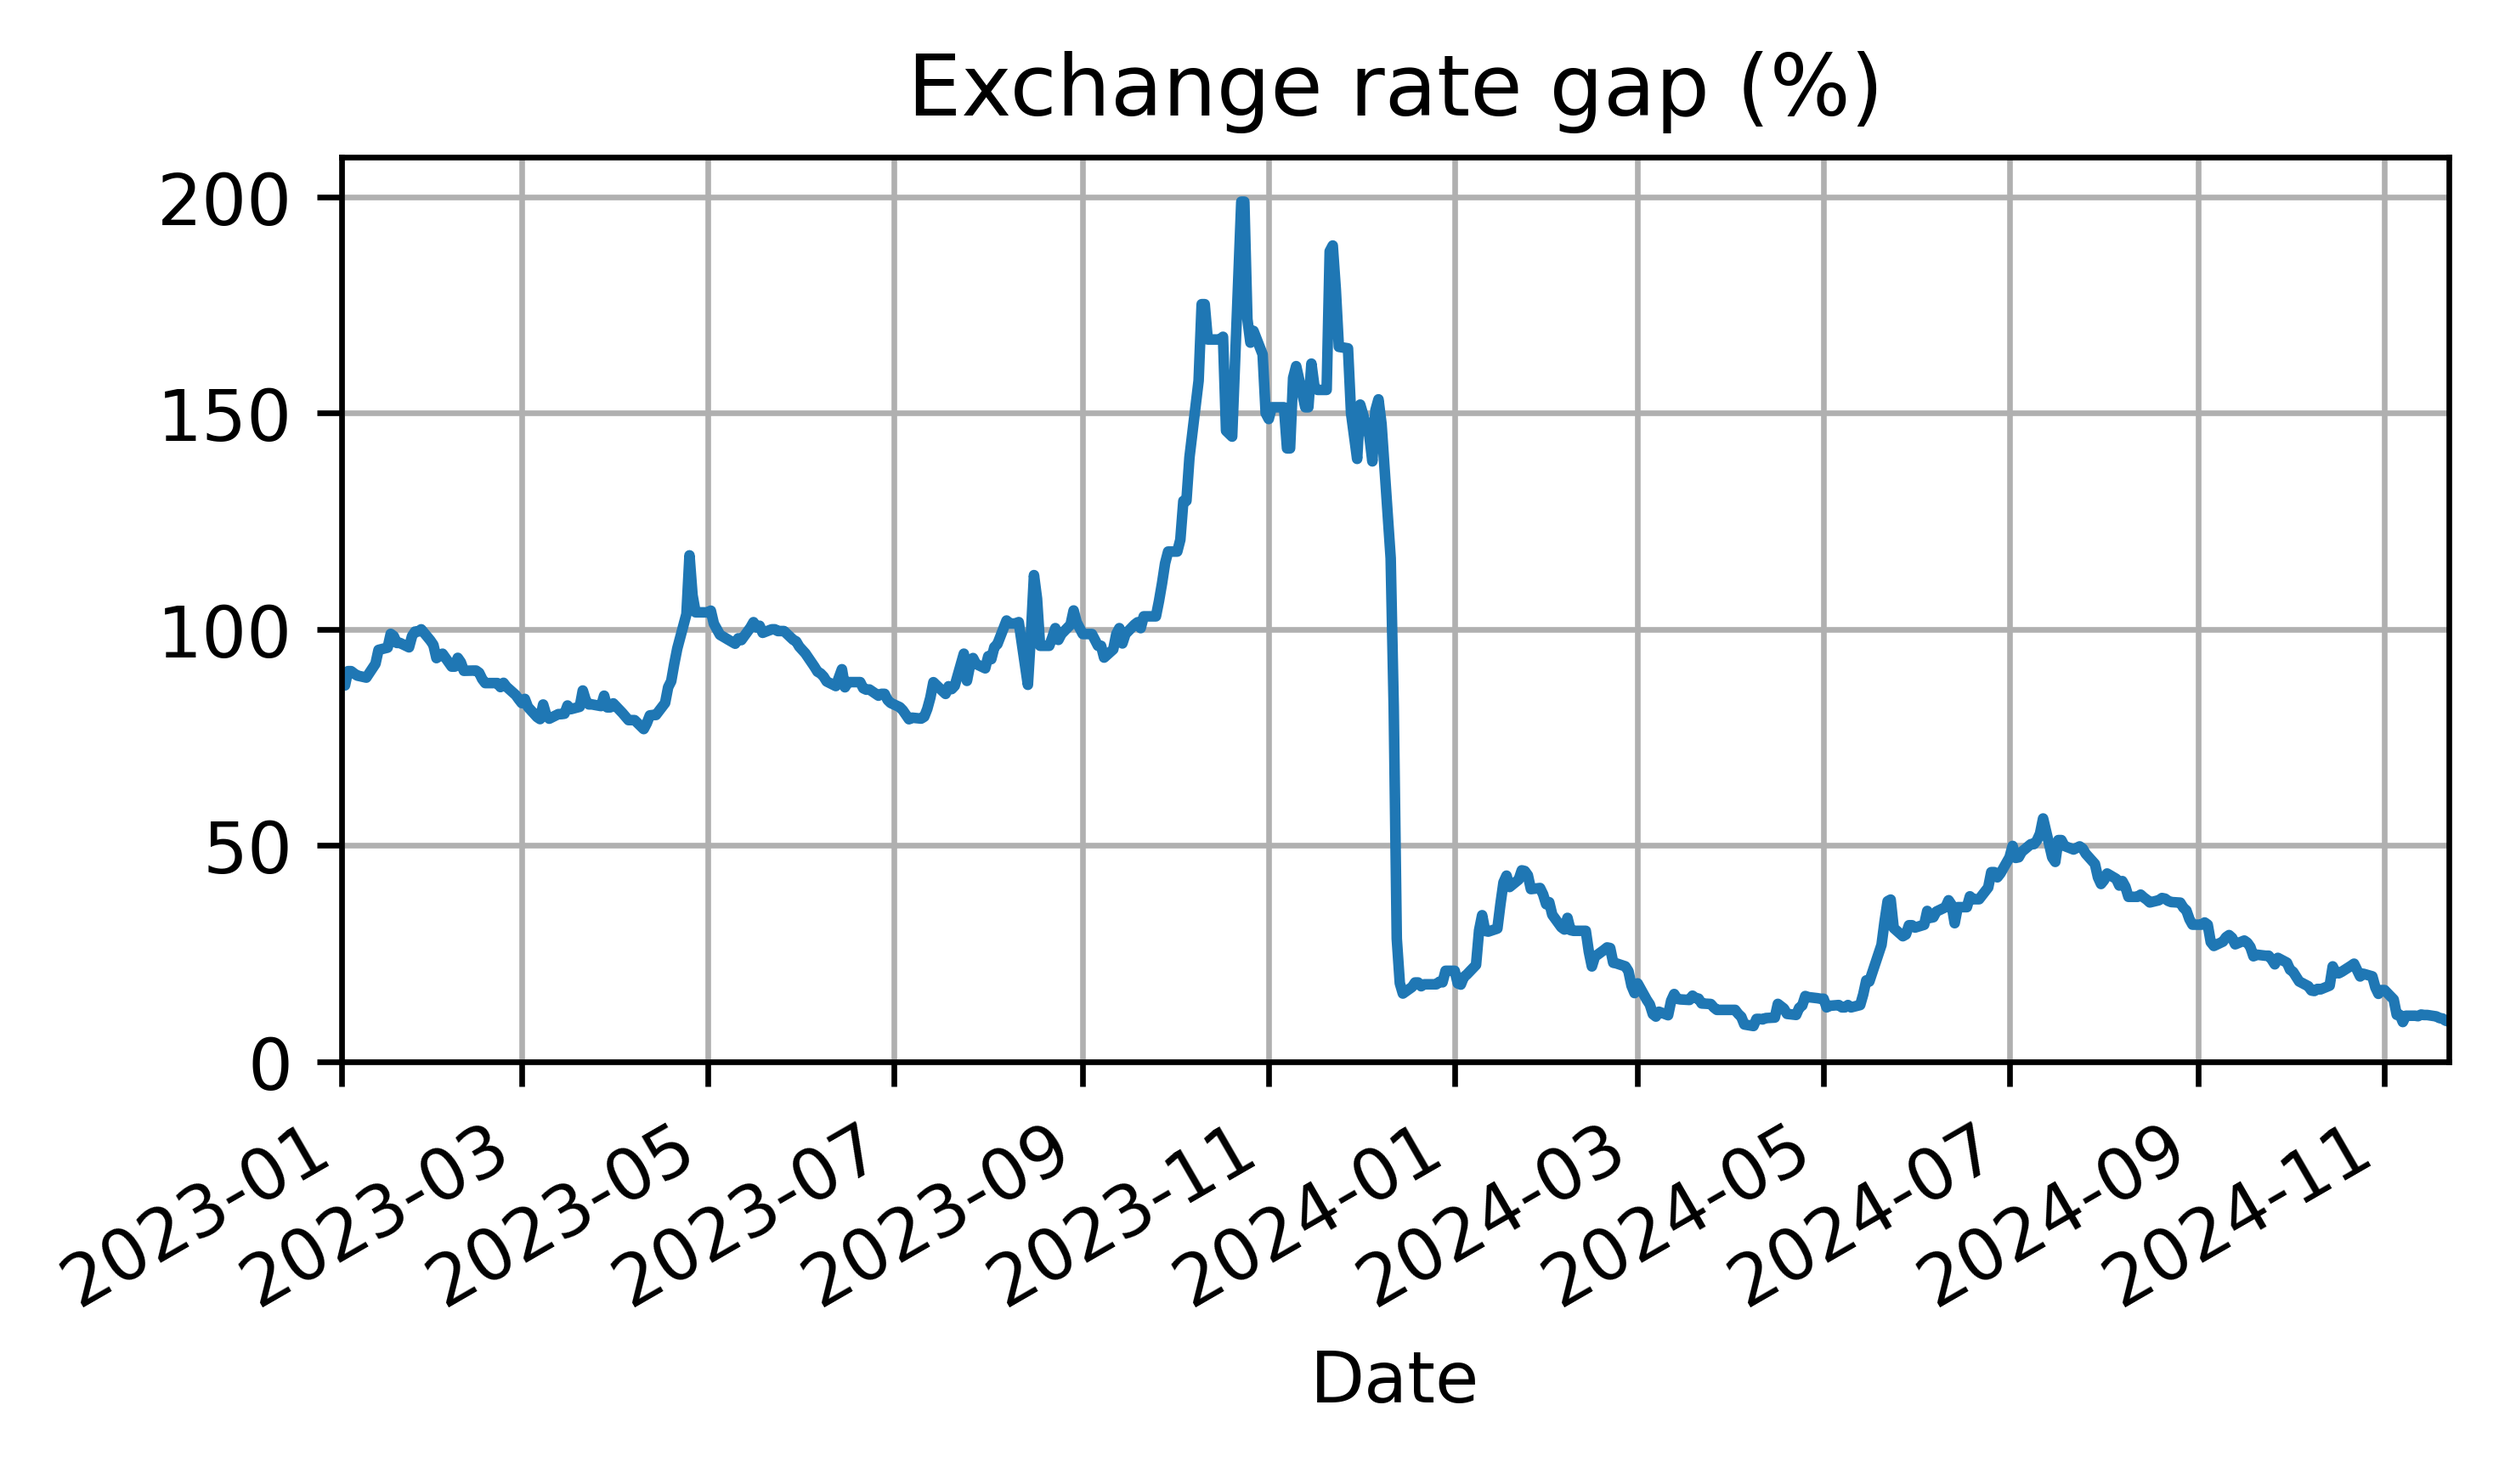
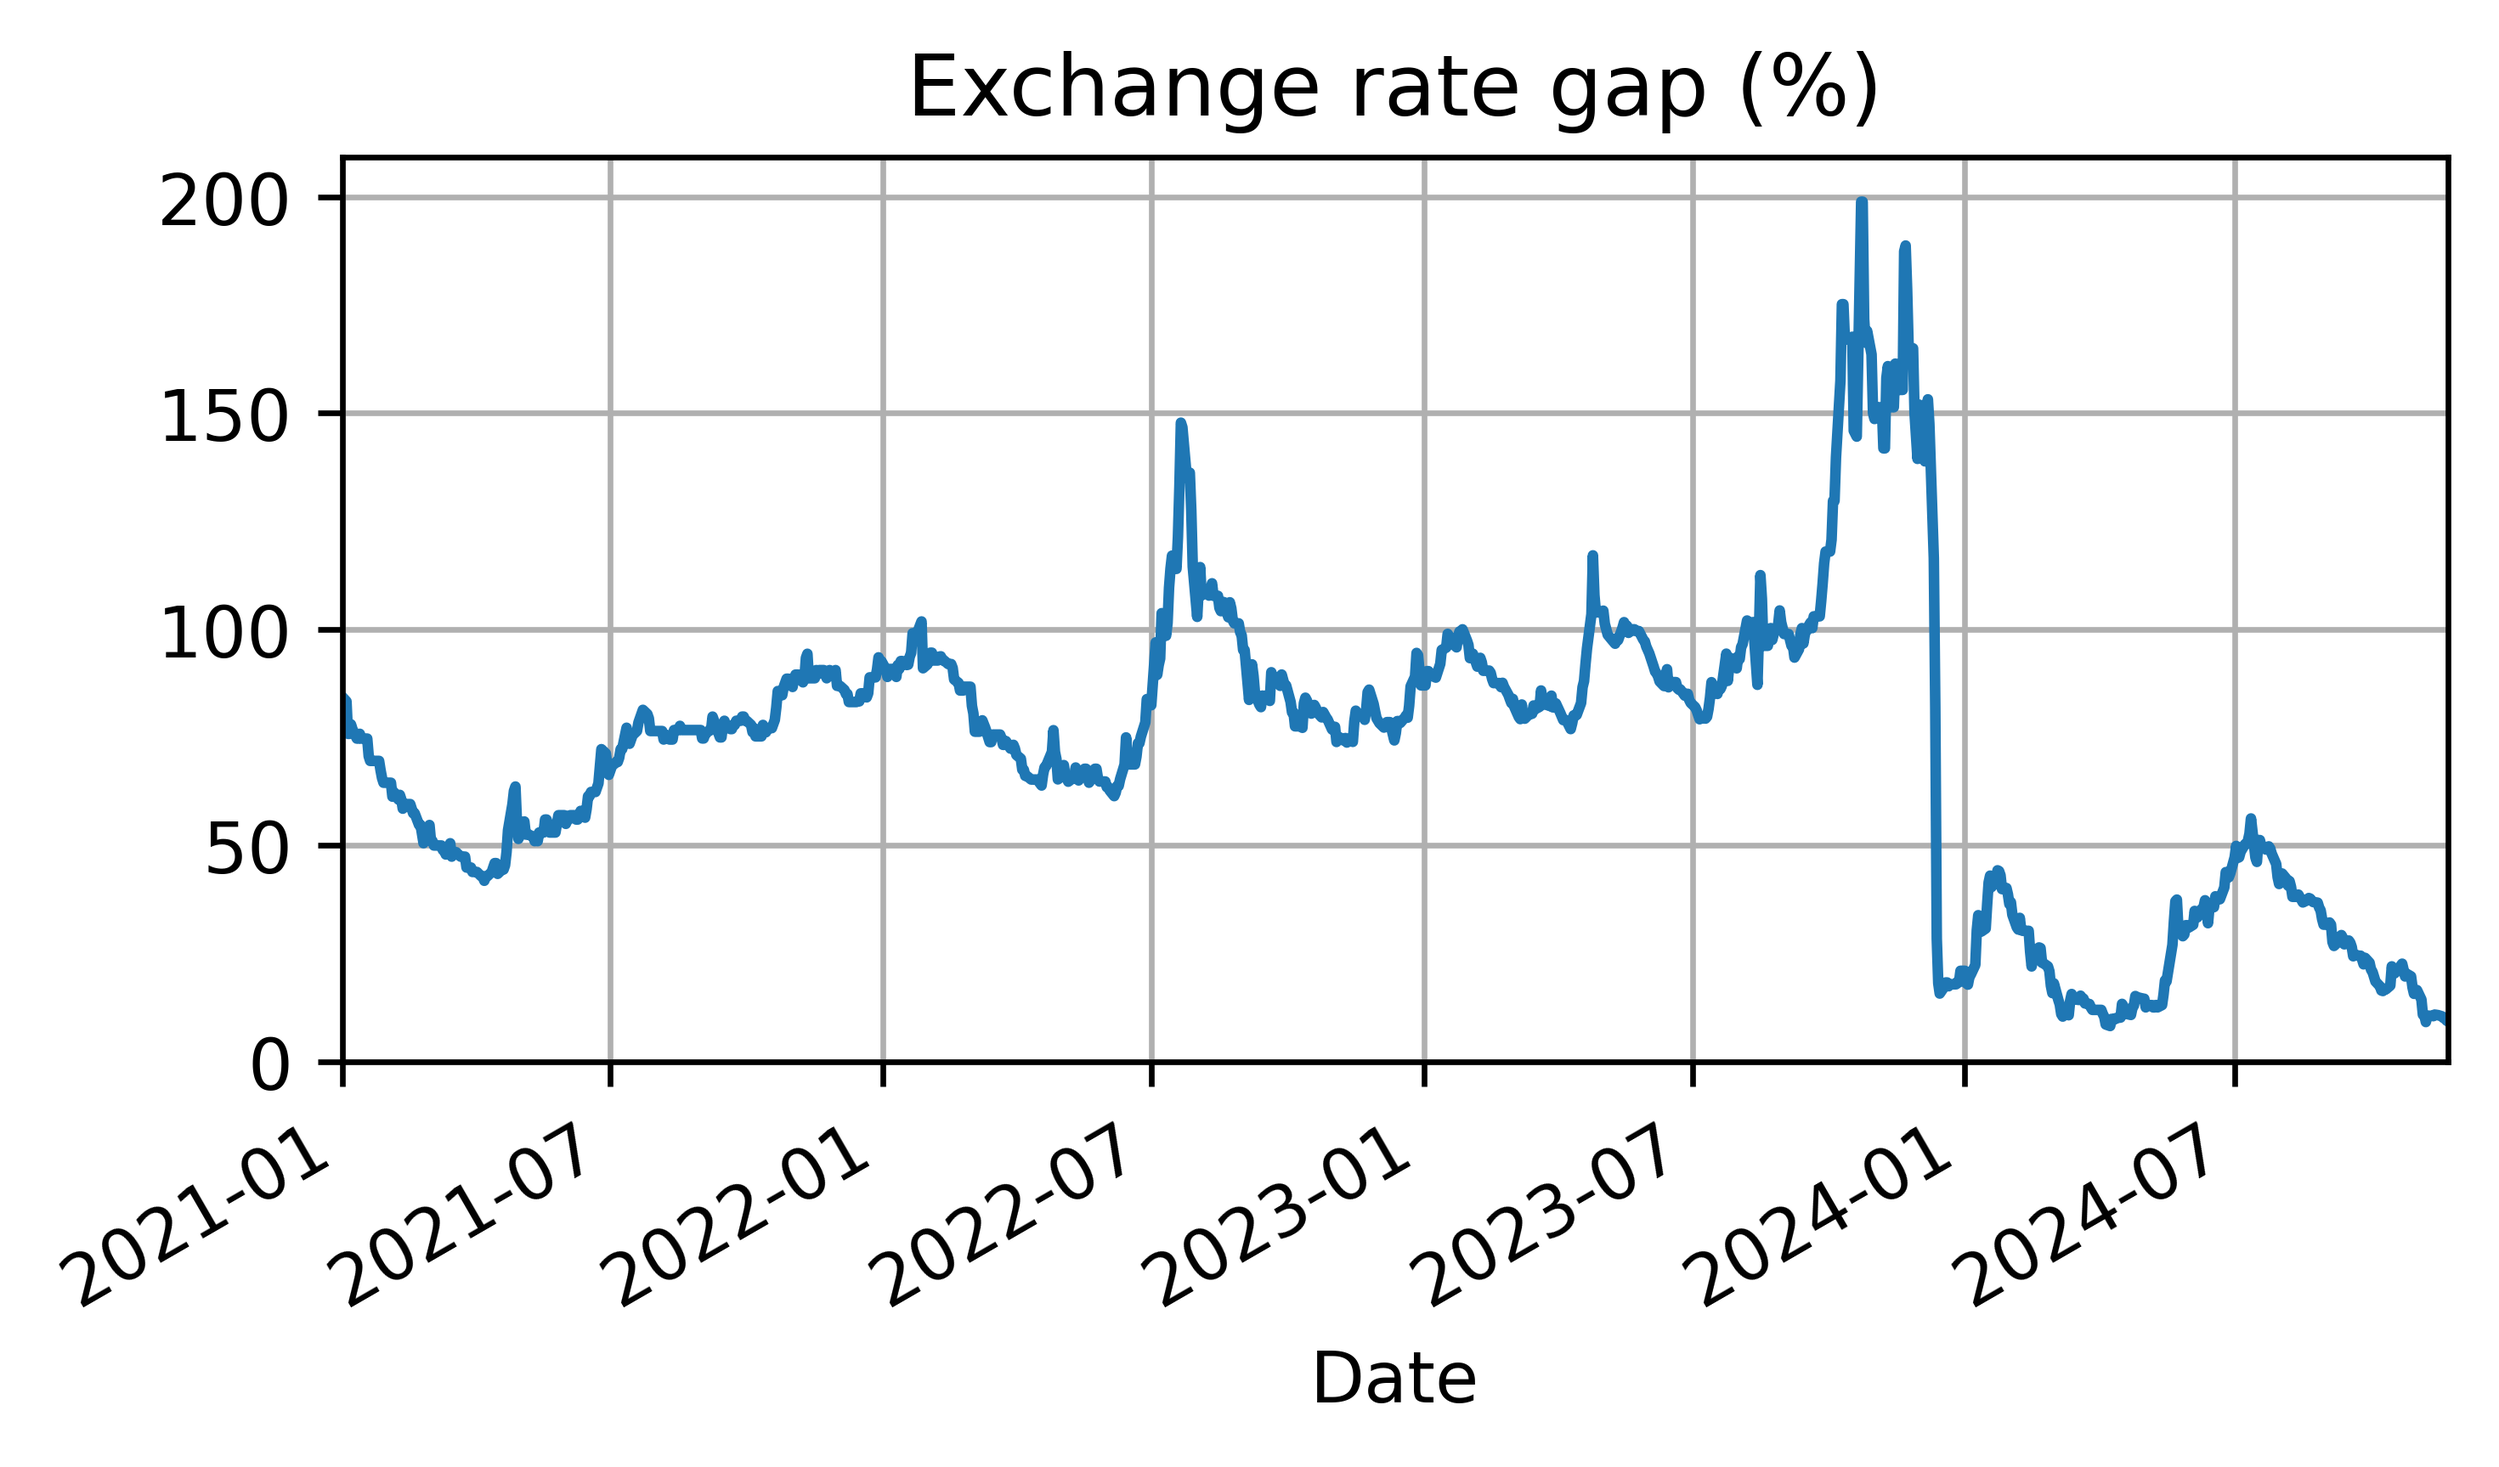
Change xlim

diff --git a/main.py b/main.py
@@ -35,7 +35,7 @@ ax.set_title('Exchange rate gap (%)')
 ax.grid()
 ax.set_xlabel('Date')
 ax.set_ylim(0)
-ax.set_xlim(pd.Timestamp('2023-01-01'), x[0].max())
+ax.set_xlim(pd.Timestamp('2021-01-01'), x[0].max())
 fig.autofmt_xdate()
 fig.tight_layout()
 fig.savefig('exchange_rate_gap.png', dpi=600, bbox_inches='tight')
